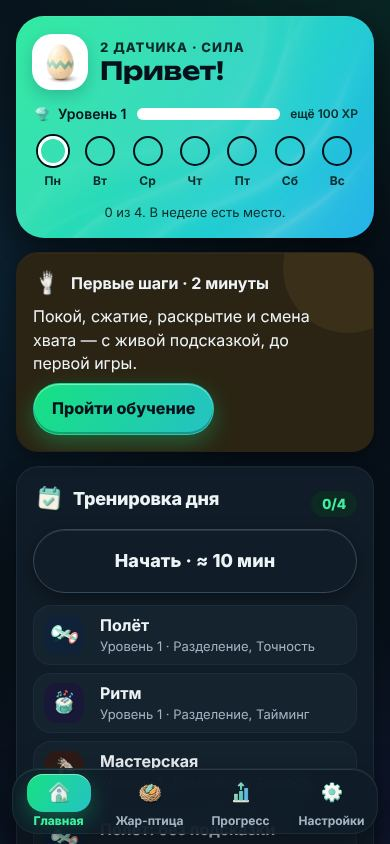
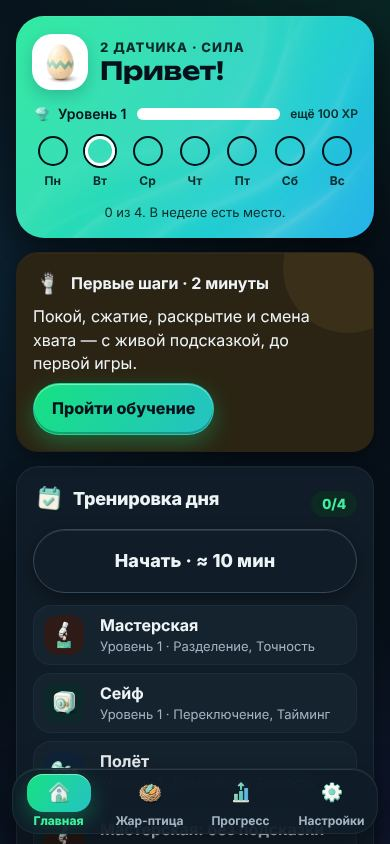
5.32.0: evidence for the code with the bird in its nest — 431 tests, axe 33/10, layout 1824 without findings
- npm test: 431 tests, 0 failed (1 skipped). e2e:a11y: 0 JS errors, 0 axe violations in 33 light and 10 dark states.
  audit:layout: 1824 combinations, 0 findings, 0 errors. All on this code.
- The APK and HTML entries are the owner's of 27.10 (release/ is not in this checkout); both were built before
  today's pictures, so the release needs a rebuild.
- README «Графика»: 183 иллюстрации — the table now declines the word (it said «183 иллюстраций»).
- Screenshots: only those whose picture changed — the nest with the bird sitting in it, the home screens with the
  new Workshop icon. The other re-shots differ in animation phase or the day's task and stay as they were.

diff --git a/README.md b/README.md
@@ -27,7 +27,7 @@
 | Доступность | 0 нарушений axe: светлая тема — 33 состояния, тёмная — 10 (27.10.2026) | `npm run e2e:a11y` |
 | Раскладка | 76 состояний × 8 экранов × текст 100/130/200 % = 1824 — 0 находок (27.10.2026) | `npm run audit:layout` |
 | Контраст | каждая пара цветов ≥ 4,5:1 в трёх темах | `tests/design.test.mjs` |
-| Графика | 157 иллюстраций, 2,21 МБ, у каждой есть место на экране | `docs/ART.md`, `tests/v516.test.mjs` |
+| Графика | 183 иллюстрации, 2,93 МБ, у каждой есть место на экране | `docs/ART.md`, `tests/v516.test.mjs` |
 | Офлайн | APK 2909 КБ, HTML 3,65 МБ, без сети и аккаунта | `release/`, `docs/evidence.json` |
 <!-- evidence:end -->
 
